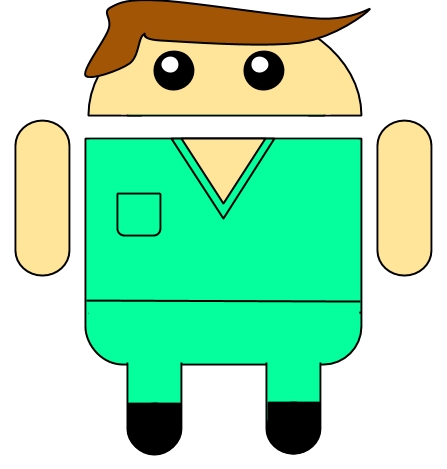
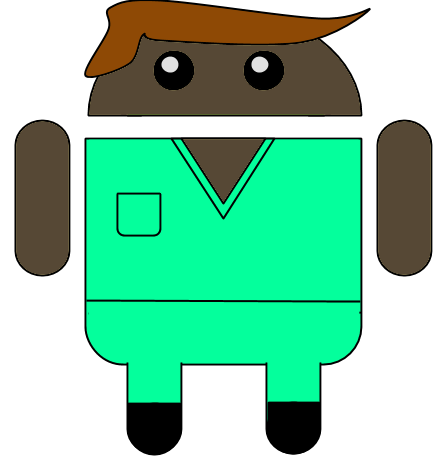
added med student to main screen and bench press minigame

diff --git a/src/com/gradugation/BenchPressMinigame.java b/src/com/gradugation/BenchPressMinigame.java
@@ -45,7 +45,7 @@ public class BenchPressMinigame extends Activity {
 		if (characterType.equals("Engineer")) image.setImageResource(R.drawable.bench_press_engineer1);
 		else if (characterType.equals("Athlete")) image.setImageResource(R.drawable.bench_press_athlete1);
 		else if (characterType.equals("Gradugator")) image.setImageResource(R.drawable.bench_press_gradugator1);
-		else if (characterType.equals("PreMed")) {/* code to set image to pre med student*/}
+		else if (characterType.equals("PreMed")) image.setImageResource(R.drawable.bench_press_premed1);
 
 		timer = new CountDownTimer(10500, 1000) {
 			public void onTick(long millisUntilFinished) {
@@ -154,6 +154,17 @@ public class BenchPressMinigame extends Activity {
 				}
 				else {
 					image.setImageResource(R.drawable.bench_press_gradugator1);
+				}
+			}
+			else if (characterType.equals("PreMed")) {
+				if (clicks % 4 == 0) {
+					image.setImageResource(R.drawable.bench_press_premed3);
+				}
+				else if (clicks == 2 || clicks % 2 == 1) {
+					image.setImageResource(R.drawable.bench_press_premed2);
+				}
+				else {
+					image.setImageResource(R.drawable.bench_press_premed1);
 				}
 			}
 		}
